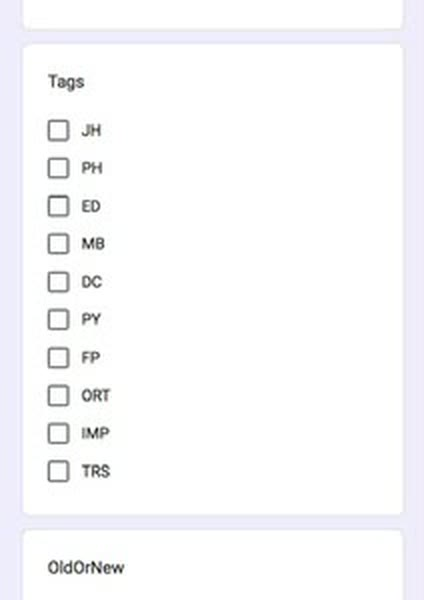
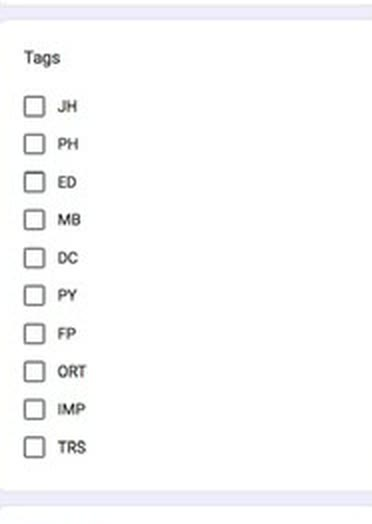
Dentomate case: strip finishes before scrolling on, one mat for every screen
- The attempts strip measured its travel from the track's scrollWidth, which
  leaves out the trailing padding, and lit whichever card was nearest the
  centre, which the last one never is. Travel is now measured to the last
  card's right edge, there is a short hold once it lands, and the lit card
  follows progress, so the page only scrolls on once the final app is fully
  in view and lit.
- Every screenshot (strip, research, product) sits on the same surface mat
  with 24px padding and a hairline-framed image. The sources are cropped
  tight to the UI, so no stray page backgrounds.
- The growth beat is the app's analytics screen rebuilt in HTML with a
  representative clinic's figures (returning patients rising month on
  month). The page says they are representative.
- Smaller corner radius on the two phones.
- Says the platform is early: "Early, 34 clinics and growing".

Changed region(s): [[0.0591, 0.1832, 0.2661, 0.8855], [0.1183, 0.916, 0.2957, 0.9771], [0.0591, 0.0916, 0.207, 0.1527]]

diff --git a/case-dentomate.html b/case-dentomate.html
@@ -492,8 +492,8 @@
   figure.jr-card{position:static;padding:0;border:0;background:none;border-radius:0;overflow:visible;
     align-items:flex-start;justify-content:flex-start;}
   figcaption.jr-cap{position:static;font-family:var(--sans);letter-spacing:0;text-transform:none;color:var(--ink);}
-  .jr-img{height:min(62vh,600px);border:1px solid var(--line);border-radius:var(--r-md);overflow:hidden;background:var(--surface);}
-  .jr-img img{display:block;height:100%;width:auto;}
+  .jr-img{height:min(62vh,600px);padding:20px;border:1px solid var(--line);border-radius:var(--r-lg);background:var(--surface);}
+  .jr-img img{display:block;height:100%;width:auto;border:1px solid var(--line);border-radius:var(--r-sm);background:var(--paper);}
   .jr-cap{display:flex;flex-direction:column;gap:6px;max-width:420px;}
   .jr-cap i{font-style:normal;font-family:var(--mono);font-size:var(--t-label);letter-spacing:.12em;text-transform:uppercase;color:var(--ink-3);}
   .jr-cap b{font-family:var(--sans);font-weight:var(--w-head);font-size:var(--t-sub);letter-spacing:-.015em;line-height:1.2;}
@@ -505,7 +505,7 @@
 
   /* product beats, after interfere.com: text left, the real screen running
      off the right edge of the viewport, one pin on the part that matters */
-  .beat{display:grid;grid-template-columns:5fr 7fr;gap:56px;align-items:start;padding:72px 0;border-top:1px solid var(--line);}
+  .beat{display:grid;grid-template-columns:minmax(0,1fr) minmax(0,1.6fr);gap:56px;align-items:start;padding:72px 0;border-top:1px solid var(--line);}
   /* grid items default to min-width:auto, and a 1100px screenshot would prop
      the column open on a phone */
   .beat > *{min-width:0;}
@@ -515,13 +515,6 @@
   .caps{margin-top:40px;padding-top:16px;border-top:1px solid var(--line);}
   .caps ul{list-style:none;display:grid;grid-template-columns:1fr 1fr;gap:10px 24px;margin:0;padding:0;}
   .caps li{font-size:var(--t-body);color:var(--ink-2);}
-  /* bleed: the column reaches past the wrap to the viewport's right edge */
-  .beat-ui{margin-right:calc((min(100vw, 1080px) - 88px - 100vw) / 2);}
-  .crop{position:relative;height:var(--h,460px);overflow:hidden;border:1px solid var(--line);border-right:0;
-    border-radius:var(--r-lg) 0 0 var(--r-lg);background:var(--surface);
-    -webkit-mask:linear-gradient(180deg,var(--ink) 78%,transparent);mask:linear-gradient(180deg,var(--ink) 78%,transparent);}
-  .shot-in{position:relative;width:var(--w,900px);transform:translate(var(--tx,0px),var(--ty,0px));}
-  .shot-in img{display:block;width:100%;height:auto;}
   /* numbered dot on the screen; its note sits in the text column (.keys), so
      nothing is laid over the UI it explains */
   .pin,.keys .k{display:grid;place-items:center;width:22px;height:22px;border-radius:var(--r-pill);
@@ -534,15 +527,14 @@
   /* ViewRyt's phone: no bezel, no shadow, a 2px hairline on the device radius */
   .phones{display:flex;gap:32px;align-items:flex-start;}
   figure.phone{position:relative;width:260px;flex:none;margin:0;padding:0;overflow:visible;
-    border:2px solid var(--line);border-radius:var(--r-device);background:var(--paper);box-shadow:none;}
-  .phone .screen{border-radius:calc(var(--r-device) - 2px);overflow:hidden;}
+    border:2px solid var(--line);border-radius:var(--r-lg);background:var(--paper);box-shadow:none;}
+  .phone .screen{border-radius:calc(var(--r-lg) - 2px);overflow:hidden;}
   .phone .screen img{display:block;width:100%;height:auto;}
   .phone + .phone{margin-top:56px;}
 
 
   @media (max-width:900px){
     .beat{grid-template-columns:minmax(0,1fr);gap:32px;padding:56px 0;}
-    .crop{height:360px;}
     .loop{flex-wrap:wrap;}
     .loop-node{flex:1 1 40%;}
     .loop-arrow{display:none;}
@@ -552,11 +544,10 @@
     .jr-track{flex-direction:column;gap:56px;transform:none!important;padding:0 44px;}
     .jr-card{opacity:1;}
     .jr-img{height:auto;max-width:100%;}
-    .jr-img img{width:100%;height:auto;max-height:70vh;object-fit:contain;}
+    .jr-img img{width:100%;height:auto;max-height:66vh;object-fit:contain;}
     .jr-bar{display:none;}
   }
   @media (max-width:640px){
-    .beat-ui{margin-right:-22px;}
     .jr-track{padding:0 22px;}
     .caps ul{grid-template-columns:1fr;}
     .phones{gap:14px;}
@@ -571,12 +562,10 @@
     .jr-bar{display:none;}
   }
 
-  /* research: each annotated artifact large, its numbered notes beside it */
+  /* research rows: artifact on its mat, numbered notes beside it */
   .ann-row{display:grid;grid-template-columns:1.7fr 1fr;gap:48px;align-items:center;margin-top:48px;}
-  .ann-row.form-row{grid-template-columns:minmax(0,300px) 1fr;}
+  .ann-row.form-row{grid-template-columns:minmax(0,320px) 1fr;}
   figure.ann-fig{position:static;margin:0;padding:0;border:0;background:none;display:block;overflow:visible;}
-  .ann-img{position:relative;border:1px solid var(--line);border-radius:var(--r-md);overflow:hidden;}
-  .ann-img img{display:block;width:100%;height:auto;}
   .ann-notes .num{display:block;font-style:normal;font-family:var(--mono);font-size:var(--t-label);letter-spacing:.12em;text-transform:uppercase;color:var(--ink-3);}
   .ann-notes .keys{margin:14px 0 0;}
   .ann-notes .keys li{align-items:flex-start;line-height:1.45;}
@@ -593,6 +582,59 @@
     .ann-row.form-row figure{max-width:260px;}
   }
   @media (prefers-reduced-motion:reduce){ .vid canvas.fx{transition:none;} }
+
+  /* one mat for every screenshot on the page: surface, hairline, 24px all round,
+     and the screen inside on its own hairline. Pins are placed on .shot, so
+     their percentages are percentages of the image. */
+  .mat{background:var(--surface);border:1px solid var(--line);border-radius:var(--r-lg);padding:24px;}
+  .shot{position:relative;}
+  .shot > img{display:block;width:100%;height:auto;border:1px solid var(--line);border-radius:var(--r-sm);background:var(--paper);}
+
+  /* growth: the app's analytics screen rebuilt in HTML. Its colours are the
+     app's, named here and used nowhere else on the page. */
+  :root{--app-blue:#2563eb;--app-green:#10b981;--app-red:#ef4444;--app-orange:#f97316;--app-amber:#eab308;
+    --app-indigo:#6366f1;--app-bg:#f8fafc;--app-line:#e5e7eb;--app-ink:#111827;--app-mut:#6b7280;}
+  .app-ui{display:grid;gap:12px;padding:14px;background:var(--app-bg);border:1px solid var(--line);border-radius:var(--r-sm);
+    font-family:var(--sans);color:var(--app-ink);}
+  .au-row3{display:grid;grid-template-columns:1fr 1.2fr 1fr;gap:12px;}
+  .au-row2{display:grid;grid-template-columns:1fr 1.25fr;gap:12px;}
+  .au-card{position:relative;background:var(--paper);border:1px solid var(--app-line);border-radius:var(--r-md);padding:14px;min-width:0;}
+  /* dots live in their card, top-right, so they follow it when the cards stack */
+  .pin.au-pin{left:auto;top:-11px;right:-11px;margin:0;}
+  .au-card > b{display:flex;align-items:center;gap:6px;font-size:13px;font-weight:600;margin-bottom:10px;}
+  .au-blue{background:var(--app-blue);border-color:var(--app-blue);color:var(--paper);}
+  .au-blue > b{justify-content:center;}
+  .au-split{display:grid;grid-template-columns:1fr 1fr;text-align:center;}
+  .au-split > div + div{border-left:1px solid color-mix(in srgb, var(--paper) 30%, transparent);}
+  .au-split strong{display:block;font-size:28px;font-weight:600;line-height:1.1;}
+  .au-split small{display:block;font-family:var(--mono);font-size:9px;letter-spacing:.06em;text-transform:uppercase;opacity:.85;margin-top:4px;}
+  .au-risk{display:flex;align-items:center;gap:12px;}
+  .au-donut{flex:none;width:56px;height:56px;border-radius:var(--r-pill);
+    background:conic-gradient(var(--app-red) 0 34%, var(--app-orange) 0 89%, var(--app-amber) 0 100%);
+    -webkit-mask:radial-gradient(circle, transparent 46%, var(--ink) 47%);mask:radial-gradient(circle, transparent 46%, var(--ink) 47%);}
+  .au-risk ul{list-style:none;margin:0;padding:0;display:grid;gap:4px;font-size:10px;color:var(--app-mut);white-space:nowrap;}
+  .au-risk li{display:flex;align-items:center;gap:6px;}
+  .au-risk i,.au-key i{display:inline-block;width:8px;height:8px;border-radius:2px;background:var(--app-green);}
+  .au-risk i.r{background:var(--app-red);} .au-risk i.o{background:var(--app-orange);} .au-risk i.y{background:var(--app-amber);}
+  .au-ai .icon{color:var(--app-blue);}
+  .au-card p{font-size:12px;line-height:1.45;color:var(--app-mut);margin:0 0 10px;}
+  .au-n{display:inline-grid;place-items:center;min-width:20px;height:20px;padding:0 5px;margin-right:6px;border-radius:var(--r-pill);
+    background:color-mix(in srgb, var(--app-blue) 12%, var(--paper));color:var(--app-blue);font-size:11px;font-weight:600;}
+  .au-btn{display:inline-block;font-size:11px;font-weight:600;color:var(--paper);background:var(--app-blue);padding:5px 10px;border-radius:var(--r-sm);}
+  .au-key{display:flex;align-items:center;gap:6px;font-size:10px;color:var(--app-mut);margin:-4px 0 8px;}
+  .au-key i.rt{margin-left:8px;background:var(--app-blue);}
+  .au-chart{display:flex;align-items:flex-end;gap:10px;height:96px;padding-top:4px;border-bottom:1px solid var(--app-line);}
+  .au-col{position:relative;flex:1;height:100%;display:flex;flex-direction:column-reverse;}
+  .au-col i{display:block;height:var(--h);background:var(--app-indigo);border-radius:3px 3px 0 0;}
+  .au-chart.stacked .au-col i{background:var(--app-green);border-radius:0;}
+  .au-chart.stacked .au-col i.rt{background:var(--app-blue);}
+  .au-chart.stacked .au-col i:last-of-type{border-radius:3px 3px 0 0;}
+  .au-col em{position:absolute;top:100%;left:0;right:0;text-align:center;font-style:normal;font-size:9px;color:var(--app-mut);margin-top:4px;}
+  .au-row2 .au-card{padding-bottom:24px;}
+  @media (max-width:640px){
+    .mat{padding:14px;}
+    .au-row3,.au-row2{grid-template-columns:1fr;}
+  }
 </style>
 <!-- Microsoft Clarity - visits, heatmaps and session recordings for heyrav.in -->
 <script type="text/javascript">
@@ -620,7 +662,7 @@
     <p class="lede rv rv-d1">Dentomate is practice software I designed and built for Indian dental clinics. It keeps patient records, sends prescriptions on WhatsApp and reminds patients when their next visit is due, so clinics stop losing the patients they already have.</p>
     <div class="facts rv rv-d2">
       <div><small>Role</small><b>Founder - design, build, GTM</b></div>
-      <div><small>Live</small><b>34 clinics, 30 doctors</b></div>
+      <div><small>Stage</small><b>Early, 34 clinics and growing</b></div>
       <div><small>Built for</small><b>Indian dental clinics</b></div>
       <div><small>Works on</small><b>Phone, tablet, desktop</b></div>
     </div>
@@ -698,8 +740,8 @@
       </div>
       <div class="ann-row rv">
         <figure class="ann-fig">
-          <div class="ann-img"><img src="assets/dentomate/attempts/01-register.jpg" alt="A clinic's handwritten register with columns for patient, work, lab sent and received, call, mobile, lab, cementation date and warranty. Names and numbers blurred." width="1400" height="1050">
-            <span class="pin" style="--x:46.6%;--y:12.4%">1</span><span class="pin" style="--x:37.5%;--y:11.2%">2</span><span class="pin" style="--x:80%;--y:11.4%">3</span></div>
+          <div class="mat"><div class="shot"><img src="assets/dentomate/attempts/01-register.jpg" alt="A clinic's handwritten register with columns for patient, work, lab sent and received, call, mobile, lab, cementation date and warranty. Names and numbers blurred." width="1400" height="1050">
+            <span class="pin" style="--x:46.6%;--y:12.4%">1</span><span class="pin" style="--x:37.5%;--y:11.2%">2</span><span class="pin" style="--x:80%;--y:11.4%">3</span></div></div>
         </figure>
         <div class="ann-notes">
           <i class="num">The paper register</i>
@@ -712,8 +754,8 @@
       </div>
       <div class="ann-row form-row rv">
         <figure class="ann-fig form">
-          <div class="ann-img"><img src="assets/dentomate/attempts/strip-3-form.jpg" alt="The Google Form's tag list: JH, PH, ED, MB, DC, PY, FP, ORT, IMP, TRS" width="424" height="600">
-            <span class="pin" style="--x:6%;--y:27%">4</span><span class="pin" style="--x:6%;--y:50%">5</span></div>
+          <div class="mat"><div class="shot"><img src="assets/dentomate/attempts/strip-3-form.jpg" alt="The Google Form's tag list: JH, PH, ED, MB, DC, PY, FP, ORT, IMP, TRS" width="372" height="524">
+            <span class="pin" style="--x:3%;--y:23.5%">4</span><span class="pin" style="--x:3%;--y:42%">5</span></div></div>
         </figure>
         <div class="ann-notes">
           <i class="num">The Google Form</i>
@@ -767,11 +809,11 @@
             <figcaption class="jr-cap"><span class="apps" aria-hidden="true"><span class="app-ph"><svg class="icon" viewBox="0 0 256 256" aria-hidden="true"><path d="M184,112a8,8,0,0,1-8,8H112a8,8,0,0,1,0-16h64A8,8,0,0,1,184,112Zm-8,24H112a8,8,0,0,0,0,16h64a8,8,0,0,0,0-16Zm48-88V208a16,16,0,0,1-16,16H48a16,16,0,0,1-16-16V48A16,16,0,0,1,48,32H208A16,16,0,0,1,224,48ZM48,208H72V48H48Zm160,0V48H88V208H208Z"/></svg></span></span><i>Start</i><b>Paper register</b><span class="why">Every visit, lab order and phone call written by hand. Nothing reminds anyone.</span></figcaption></figure>
           <figure class="jr-card"><div class="jr-img"><img src="assets/dentomate/attempts/strip-2-sheet.jpg" alt="The 2021 patient spreadsheet: date, name, age, sex, phone and village. Personal details blurred." width="760" height="470"></div>
             <figcaption class="jr-cap"><span class="apps" aria-hidden="true"><img src="assets/dentomate/icons/excel.svg" alt="" width="28" height="28"><img src="assets/dentomate/icons/sheets.svg" alt="" width="28" height="28"></span><i>Try 01</i><b>A spreadsheet</b><span class="why">Searchable, but too slow for the front desk to keep up with during a working day.</span></figcaption></figure>
-          <figure class="jr-card"><div class="jr-img"><img src="assets/dentomate/attempts/strip-3-form.jpg" alt="The Google Form used to register each patient, with treatment tags as tick-boxes" width="424" height="600"></div>
+          <figure class="jr-card"><div class="jr-img"><img src="assets/dentomate/attempts/strip-3-form.jpg" alt="The Google Form used to register each patient, with treatment tags as tick-boxes" width="372" height="524"></div>
             <figcaption class="jr-cap"><span class="apps" aria-hidden="true"><img src="assets/dentomate/icons/forms.svg" alt="" width="28" height="28"><img src="assets/dentomate/icons/sheets.svg" alt="" width="28" height="28"><img src="assets/dentomate/icons/appsscript.svg" alt="" width="28" height="28"><img src="assets/dentomate/icons/whatsapp.svg" alt="" width="28" height="28"></span><i>Try 02</i><b>Form, sheet and a script</b><span class="why">A Google Form per patient and an Apps Script sending WhatsApp messages. ₹1,500 a month, a developer for every fix, and no room for the treatment list.</span></figcaption></figure>
           <figure class="jr-card"><div class="jr-img"><img src="assets/dentomate/attempts/strip-4-appsheet.jpg" alt="The AppSheet patient app built on the same sheet. Patient details blurred." width="290" height="500"></div>
             <figcaption class="jr-cap"><span class="apps" aria-hidden="true"><img src="assets/dentomate/icons/appsheet.svg" alt="" width="28" height="28"><img src="assets/dentomate/icons/whatsapp.svg" alt="" width="28" height="28"></span><i>Try 03</i><b>AppSheet</b><span class="why">A real app on the same sheet. Data entry got easier. The API bill and the developer stayed.</span></figcaption></figure>
-          <figure class="jr-card"><div class="jr-img"><img src="assets/dentomate/attempts/strip-5-prototype.jpg" alt="The first prototype's treatment plan: every treatment as a tick-box" width="667" height="520"></div>
+          <figure class="jr-card"><div class="jr-img"><img src="assets/dentomate/attempts/strip-5-prototype.jpg" alt="The first prototype's treatment plan: every treatment as a tick-box" width="600" height="520"></div>
             <figcaption class="jr-cap"><span class="apps" aria-hidden="true"><img src="assets/dentomate/icons/dentomate.png" alt="" width="28" height="28"></span><i>Prototype</i><b>An app for one clinic</b><span class="why">Every treatment became a tick-box. Recording a visit dropped under a minute.</span></figcaption></figure>
           <figure class="jr-card"><div class="jr-img"><img src="assets/dentomate/attempts/strip-6-today.jpg" alt="Dentomate today: the patient register grouped by day" width="1000" height="620"></div>
             <figcaption class="jr-cap"><span class="apps" aria-hidden="true"><img src="assets/dentomate/icons/dentomate.png" alt="" width="28" height="28"></span><i>Today</i><b>Dentomate</b><span class="why">Piloted with three dentists, now live in 34 clinics.</span></figcaption></figure>
@@ -795,9 +837,7 @@
           <p>Treatments are grouped the way dentists think about them: general, endodontics, surgery, prostho and ortho. The dentist taps, ticks the details and moves on. We tested it with dentists until a full patient entry took less than a minute.</p>
           <ol class="keys"><li><span class="k">1</span>Tap a tag to add a treatment</li><li><span class="k">2</span>Tick the details, done</li></ol>
           <div class="caps"><ul><li>Treatment tabs</li><li>Quick tags</li><li>Medical history</li><li>Doctor-only notes</li></ul></div></div>
-        <div class="beat-ui rv rv-d1"><div class="crop"><div class="shot-in" style="--w:672px;--tx:28px;--ty:28px">
-          <img src="assets/dentomate/product/01-treatments.png" alt="Treatment plan with tabs for General, Endodontics, Surgery and Extractions, Prostho and Implants, and quick-add tags" width="672" height="405">
-          <span class="pin" style="--x:7.5%;--y:25.5%">1</span><span class="pin" style="--x:6.8%;--y:59%">2</span></div></div></div>
+        <div class="beat-ui rv rv-d1"><div class="mat"><div class="shot"><img src="assets/dentomate/product/01-treatments.png" alt="Treatment plan with tabs for General, Endodontics, Surgery and Extractions, Prostho and Implants, and quick-add tags" width="672" height="405"><span class="pin" style="--x:7.5%;--y:25.5%">1</span><span class="pin" style="--x:6.8%;--y:59%">2</span></div></div></div>
       </div>
 
       <div class="beat">
@@ -805,9 +845,7 @@
           <p>As the patient leaves, a PDF with the clinic's branding and the doctor's name goes to their WhatsApp, with care advice in the message. If they reply, the front desk answers from the same screen.</p>
           <ol class="keys"><li><span class="k">1</span>Prescription attached, care advice included</li><li><span class="k">2</span>WhatsApp's reply window, counting down</li></ol>
           <div class="caps"><ul><li>Clinic branding</li><li>Doctor's name</li><li>1-0-1 dosage</li><li>Hindi and English</li></ul></div></div>
-        <div class="beat-ui rv rv-d1"><div class="crop" style="--h:520px"><div class="shot-in" style="--w:1100px;--tx:-280px;--ty:-320px">
-          <img src="assets/dentomate/app-inbox.jpg" alt="The Dentomate inbox: a WhatsApp conversation about a prescription, with the reply window counting down above the message box" width="1600" height="1164">
-          <span class="pin" style="--x:66.5%;--y:50%">1</span><span class="pin" style="--x:54.5%;--y:88.5%">2</span></div></div></div>
+        <div class="beat-ui rv rv-d1"><div class="mat"><div class="shot"><img src="assets/dentomate/product/02-prescription.jpg" alt="A WhatsApp conversation in Dentomate: the clinic's message with the prescription attached, the patient's reply, and the reply window counting down above the message box" width="715" height="814"><span class="pin" style="--x:29%;--y:32%">1</span><span class="pin" style="--x:4.5%;--y:83.5%">2</span></div></div></div>
       </div>
 
       <div class="beat">
@@ -815,19 +853,25 @@
           <p>Patients who are due for a visit are tagged in the list. The front desk selects them, sends one campaign, and sees Sent, Delivered and Read against every name. No API subscription, no developer.</p>
           <ol class="keys"><li><span class="k">1</span>Select who is due, send once</li><li><span class="k">2</span>Sent, Delivered, Read on every patient</li></ol>
           <div class="caps"><ul><li>Due for visit</li><li>7, 90, 180-day recalls</li><li>Hindi and English</li><li>One shared API</li></ul></div></div>
-        <div class="beat-ui rv rv-d1"><div class="crop"><div class="shot-in" style="--w:1100px;--tx:-200px;--ty:-80px">
-          <img src="assets/dentomate/app-whatsapp.jpg" alt="The WhatsApp patient list: each patient with Sent, Delivered or Read, tags like New patient and High value, and a New Campaign button" width="1600" height="978">
-          <span class="pin" style="--x:52%;--y:24.7%">1</span><span class="pin" style="--x:38.5%;--y:52%">2</span></div></div></div>
+        <div class="beat-ui rv rv-d1"><div class="mat"><div class="shot"><img src="assets/dentomate/product/03-recall.jpg" alt="The WhatsApp patient list: each patient with Read or Delivered, tags like New patient, High value and Medical risk, and a New Campaign button" width="790" height="640"><span class="pin" style="--x:63%;--y:14.3%">1</span><span class="pin" style="--x:35.5%;--y:56%">2</span></div></div></div>
       </div>
 
       <div class="beat">
         <div class="beat-txt rv"><i class="num">04</i><h3>Nudges to grow the practice</h3>
-          <p>The dashboard goes past revenue. It shows which treatments earn the most, which patients carry medical risk, and whether new patients are coming back, then points the clinic at who to reach next.</p>
-          <ol class="keys"><li><span class="k">1</span>Insights flag the patients who need attention</li><li><span class="k">2</span>New and returning patients, side by side</li></ol>
+          <p>The dashboard goes past revenue. It shows which treatments earn the most, which patients carry medical risk, and whether new patients are coming back, then points the clinic at who to reach next. Figures shown are a representative clinic.</p>
+          <ol class="keys"><li><span class="k">1</span>Insights flag the patients who need attention</li><li><span class="k">2</span>Returning patients, month on month</li></ol>
           <div class="caps"><ul><li>Treatment value mix</li><li>Medical risk profile</li><li>Patient demographics</li><li>New vs returning</li></ul></div></div>
-        <div class="beat-ui rv rv-d1"><div class="crop"><div class="shot-in" style="--w:720px;--tx:28px;--ty:28px">
-          <img src="assets/dentomate/product/04-insights.png" alt="Dentomate insights: procedure value mix, medical risk profile, AI insights flagging 3 high-risk patients, patient demographics, and acquisition versus retention" width="1016" height="563">
-          <span class="pin" style="--x:68.5%;--y:8.5%">1</span><span class="pin" style="--x:52.5%;--y:53.5%">2</span></div></div></div>
+        <div class="beat-ui rv rv-d1"><div class="mat"><div class="shot app-ui" role="img" aria-label="Dentomate insights: 42 high-value and 118 routine procedures, a medical risk breakdown, an AI insight that 14 patients are due for RCT follow-up this week, patient age groups, and returning patients rising from 9 in April to 38 in September">
+            <div class="au-row3">
+              <div class="au-card au-blue"><b>Procedure Value Mix</b><div class="au-split"><div><strong>42</strong><small>High value<br>Ortho / Imp / RCT</small></div><div><strong>118</strong><small>Routine<br>Scale / Extract</small></div></div></div>
+              <div class="au-card"><b>Medical Risk Profile</b><div class="au-risk"><span class="au-donut"></span><ul><li><i class="r"></i>Diabetes 21</li><li><i class="o"></i>High BP 34</li><li><i class="y"></i>Kidney, liver 7</li></ul></div></div>
+              <div class="au-card"><b class="au-ai"><svg class="icon" viewBox="0 0 256 256" aria-hidden="true"><path d="M197.58,129.06,146,110l-19-51.62a15.92,15.92,0,0,0-29.88,0L78,110l-51.62,19a15.92,15.92,0,0,0,0,29.88L78,178l19,51.62a15.92,15.92,0,0,0,29.88,0L146,178l51.62-19a15.92,15.92,0,0,0,0-29.88ZM137,164.22a8,8,0,0,0-4.74,4.74L112,223.85,91.78,169A8,8,0,0,0,87,164.22L32.15,144,87,123.78A8,8,0,0,0,91.78,119L112,64.15,132.22,119a8,8,0,0,0,4.74,4.74L191.85,144ZM144,40a8,8,0,0,1,8-8h16V16a8,8,0,0,1,16,0V32h16a8,8,0,0,1,0,16H184V64a8,8,0,0,1-16,0V48H152A8,8,0,0,1,144,40ZM248,88a8,8,0,0,1-8,8h-8v8a8,8,0,0,1-16,0V96h-8a8,8,0,0,1,0-16h8V72a8,8,0,0,1,16,0v8h8A8,8,0,0,1,248,88Z"/></svg>AI Insights</b><p><span class="au-n">14</span>patients are due for RCT follow-up this week.</p><span class="au-btn">Send recall</span><span class="pin au-pin">1</span></div>
+            </div>
+            <div class="au-row2">
+              <div class="au-card"><b>Patient Demographics</b><div class="au-chart"><span class="au-col"><i style="--h:37%"></i><em>0-18</em></span><span class="au-col"><i style="--h:100%"></i><em>19-35</em></span><span class="au-col"><i style="--h:76%"></i><em>36-50</em></span><span class="au-col"><i style="--h:52%"></i><em>51+</em></span></div></div>
+              <div class="au-card"><b>Acquisition vs Retention</b><span class="au-key"><i></i>New<i class="rt"></i>Returning</span><span class="pin au-pin">2</span><div class="au-chart stacked"><span class="au-col"><i class="rt" style="--h:13%"></i><i style="--h:33%"></i><em>Apr</em></span><span class="au-col"><i class="rt" style="--h:21%"></i><i style="--h:37%"></i><em>May</em></span><span class="au-col"><i class="rt" style="--h:28%"></i><i style="--h:36%"></i><em>Jun</em></span><span class="au-col"><i class="rt" style="--h:37%"></i><i style="--h:40%"></i><em>Jul</em></span><span class="au-col"><i class="rt" style="--h:46%"></i><i style="--h:39%"></i><em>Aug</em></span><span class="au-col"><i class="rt" style="--h:57%"></i><i style="--h:43%"></i><em>Sep</em></span></div></div>
+            </div>
+          </div></div></div>
       </div>
 
       <div class="beat">
@@ -835,9 +879,7 @@
           <p>Many dentists run more than one clinic. Dentomate keeps every branch under one account at no extra cost, and old registers and sheets can be imported, so no clinic starts from zero.</p>
           <ol class="keys"><li><span class="k">1</span>Pick the branch when the day starts</li></ol>
           <div class="caps"><ul><li>Multiple branches</li><li>No extra cost per clinic</li><li>Import old records</li><li>Doctor and staff roles</li></ul></div></div>
-        <div class="beat-ui rv rv-d1"><div class="crop" style="--h:400px"><div class="shot-in" style="--w:599px;--tx:28px;--ty:28px">
-          <img src="assets/dentomate/product/05-clinics.png" alt="Select clinic location: Main Clinic and Branch Clinic" width="599" height="365">
-          <span class="pin" style="--x:7%;--y:44%">1</span></div></div></div>
+        <div class="beat-ui rv rv-d1"><div class="mat"><div class="shot"><img src="assets/dentomate/product/05-clinics.png" alt="Select clinic location: Main Clinic and Branch Clinic" width="599" height="365"><span class="pin" style="--x:7%;--y:44%">1</span></div></div></div>
       </div>
 
       <div class="beat">
@@ -858,7 +900,7 @@
       <div class="sec-label rv">Results</div>
       <div class="cols">
         <div class="rv"><h2>From one dentist <em>to 34 clinics.</em></h2></div>
-        <div class="rv rv-d1"><p>Dentomate was piloted with three dentists before it opened up. In the pilot clinics, 30% more patients came back for a follow-up visit.</p></div>
+        <div class="rv rv-d1"><p>It is still early. Dentomate was piloted with three dentists before it opened up, and it is growing one clinic at a time. In the pilot clinics, 30% more patients came back for a follow-up visit.</p></div>
       </div>
       <div class="impact rv rv-d1">
         <div class="lead"><b data-count="34">0</b><span>Clinics live</span></div>
@@ -1119,25 +1161,32 @@ document.querySelectorAll('.rv').forEach(el => io.observe(el));
 
 
 
-/* journey: pin the stage, slide the track sideways 1:1 with scroll, light the
-   card nearest the centre. Off below 900px and under reduced motion, where the
-   cards stack (CSS). */
+/* journey: pin the stage and slide the track sideways 1:1 with scroll until the
+   LAST card's right edge sits on the text column's right edge, then hold for a
+   beat before the page scrolls on. Travel is measured from that card, not from
+   the track's scrollWidth, which leaves out the trailing padding. The lit card
+   follows progress, so the last one is lit when the track arrives. Off below
+   900px and under reduced motion, where the cards stack (CSS). */
 (() => {
   const jr = document.querySelector('.jr');
   if(!jr) return;
-  const stage = jr.querySelector('.jr-stage'), track = jr.querySelector('.jr-track');
+  const track = jr.querySelector('.jr-track');
   const cards = [...track.querySelectorAll('.jr-card')];
   const bar = jr.querySelector('.jr-bar');
   const flat = () => matchMedia('(max-width:900px), (prefers-reduced-motion:reduce)').matches;
-  let travel = 0;
+  const HOLD = 0.35;            /* of a viewport: dwell on the last card */
+  let travel = 0, hold = 0;
   function layout(){
     if(flat()){ jr.style.height = ''; track.style.transform = ''; cards.forEach(c => c.classList.add('on')); return; }
-    /* line the first card up with the page's text column */
     const wrap = document.querySelector('.jr-sec .wrap');
-    const pad = wrap.getBoundingClientRect().left + parseFloat(getComputedStyle(wrap).paddingLeft);
-    jr.style.setProperty('--jr-pad', pad + 'px');
-    travel = Math.max(0, track.scrollWidth - innerWidth);
-    jr.style.height = (innerHeight + travel) + 'px';
+    const wr = wrap.getBoundingClientRect(), cs = getComputedStyle(wrap);
+    const left = wr.left + parseFloat(cs.paddingLeft), right = wr.right - parseFloat(cs.paddingRight);
+    jr.style.setProperty('--jr-pad', left + 'px');
+    track.style.transform = 'translateX(0)';
+    const last = cards[cards.length - 1];
+    travel = Math.max(0, last.getBoundingClientRect().right - right);
+    hold = innerHeight * HOLD;
+    jr.style.height = (innerHeight + travel + hold) + 'px';
     tick();
   }
   function tick(){
@@ -1146,14 +1195,11 @@ document.querySelectorAll('.rv').forEach(el => io.observe(el));
     const p = travel ? Math.min(1, Math.max(0, -r.top / travel)) : 0;
     track.style.transform = 'translateX(' + (-p * travel) + 'px)';
     bar.style.setProperty('--p', p);
-    const mid = innerWidth / 2;
-    let best = 0, bd = Infinity;
-    cards.forEach((c, i) => { const b = c.getBoundingClientRect(); const d = Math.abs(b.left + b.width / 2 - mid); if(d < bd){ bd = d; best = i; } });
-    cards.forEach((c, i) => c.classList.toggle('on', i === best));
+    const on = Math.min(cards.length - 1, Math.round(p * (cards.length - 1)));
+    cards.forEach((c, i) => c.classList.toggle('on', i === on));
   }
   addEventListener('scroll', tick, {passive:true});
   addEventListener('resize', layout);
-  /* images set the track's width, so lay out again as they arrive */
   track.querySelectorAll('img').forEach(im => im.complete || im.addEventListener('load', layout));
   addEventListener('load', layout);
   layout();
